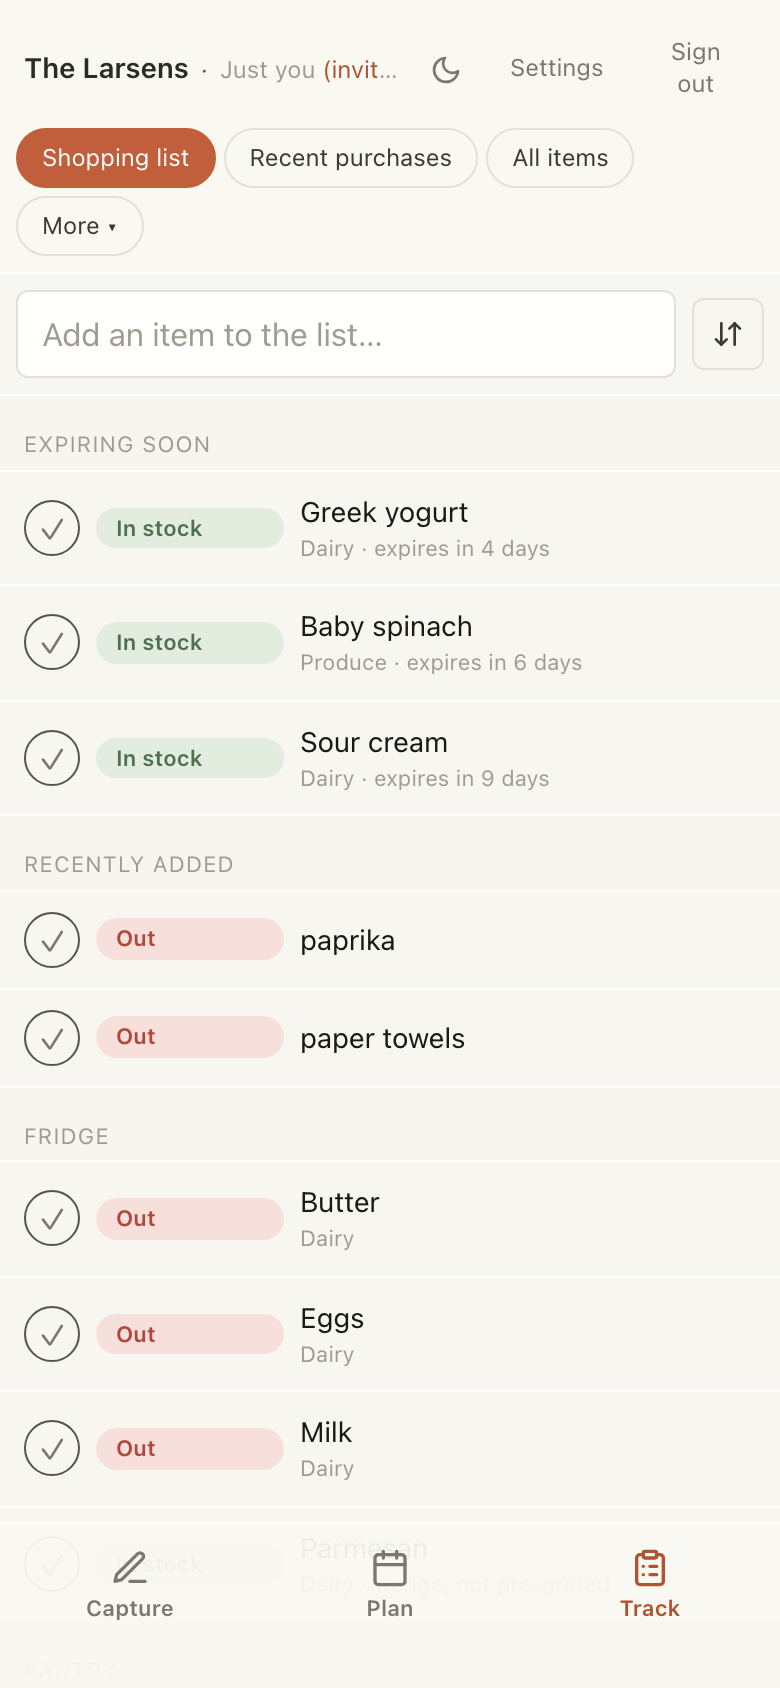
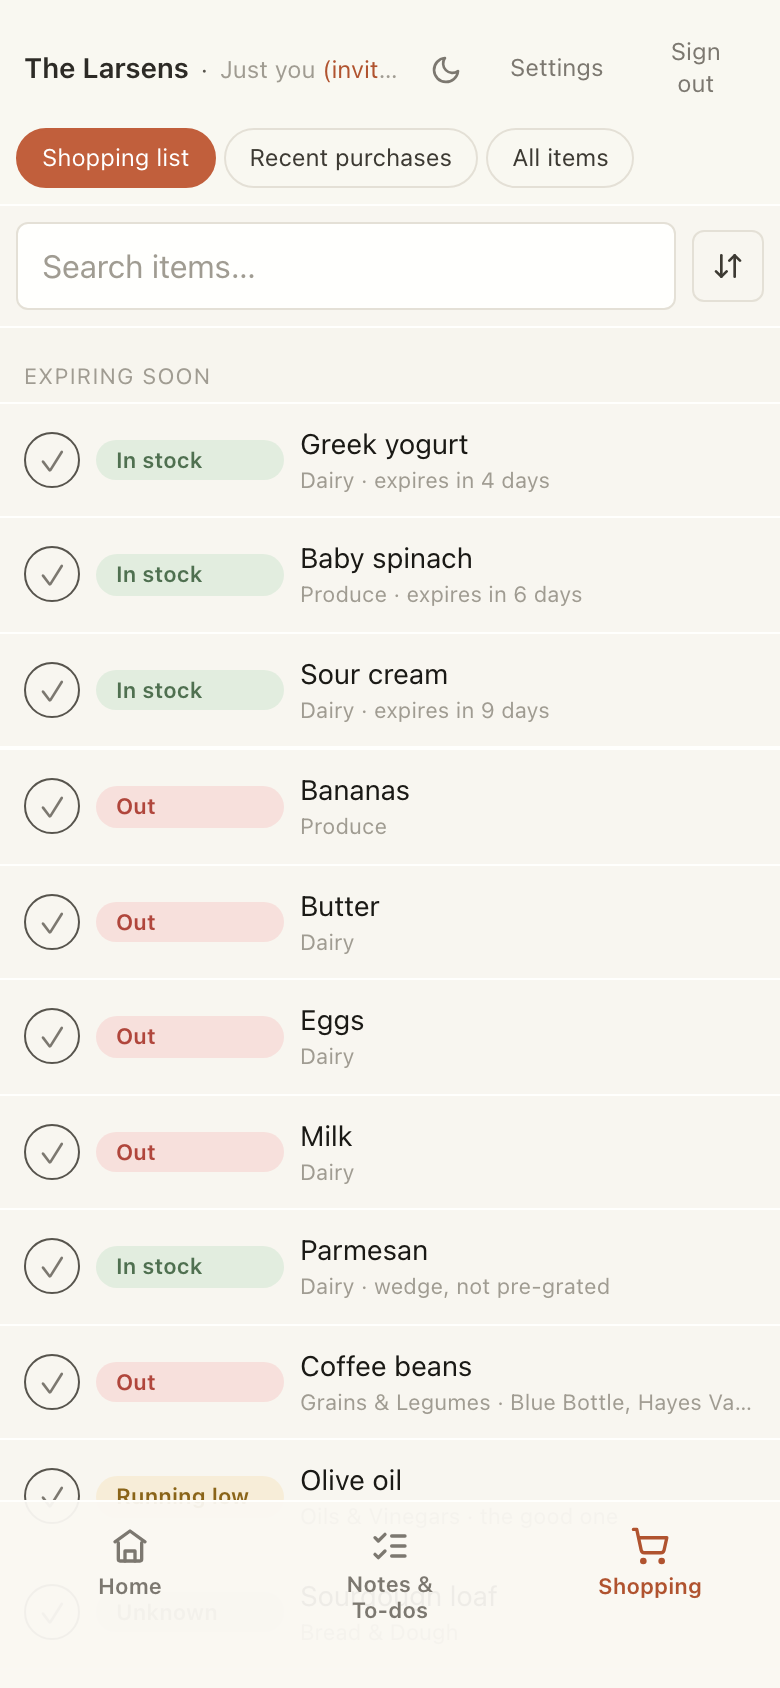
Update marketing for the new IA (Home / Notes & To-dos / Shopping, one Log)
Nav reworked in-app (#104): Capture/Plan/Track → Home / Notes & To-dos /
Shopping, Notes moved out of Home, and there's now a single create form (the
Log) that also takes photos. Brought the page in line:

- Features: dropped the Capture/Plan/Track pillars (and the Guides mention) for
  two that match the model — "One box for everything" (the one Log: type, say,
  or snap a photo; routes each line; reclassify in a tap) and "It lands where
  you'll find it" (notes & to-dos in one list; the shopping list).
- Gallery reshot against the merged app: the Log create form, the Activity
  feed, the combined Notes & To-dos view, Shopping. Dropped capture/detail/tasks.
- FAQ: "capture bar" → the Log on Home; "recipes/capture history" → notes &
  to-dos / activity history.

Hero video left as-is (real phone recording; now two nav generations stale).

diff --git a/index.html b/index.html
@@ -356,25 +356,19 @@
     <section class="features">
       <p class="features-lead">Right now it's scattered — texted to your partner, emailed to yourself, lost in a notes app, with no shared place it all lives. To-do apps and notes don't fix it: you still file each thing yourself, on your own phone. Hillside is the one shared place you just dump it all, and each line routes itself — for the whole house.</p>
       <div class="feature">
-        <h3>Capture — say it once</h3>
-        <p>Type or dictate a brain-dump — a grocery, a task, an appointment, a
-        note, even a pasted receipt — and Hillside reads it and files every line
-        where it belongs. Guessed wrong? One tap in the activity feed re-routes
-        it — so you never have to get the wording right. It even turns a throwaway
-        “changed the furnace filter” into a reminder months from now.</p>
+        <h3>One box for everything</h3>
+        <p>Type it, say it, or snap a photo — a grocery, a to-do, an appointment,
+        a note, a whole receipt — into the one Log, and Hillside sends each line
+        where it belongs. It'll even turn a throwaway “changed the furnace filter”
+        into a reminder months out. Guessed wrong? One tap in the activity feed
+        re-routes it — you never have to get the wording right.</p>
       </div>
       <div class="feature">
-        <h3>Plan — what's coming up</h3>
-        <p>Tasks and appointments in one agenda — each with an add-to-calendar
-        link — plus the weekly dinner rotation. And <em>Guides</em>: the
-        references the house keeps handy, from recipes to how-tos to anything
-        worth writing down.</p>
-      </div>
-      <div class="feature">
-        <h3>Track — what's in the house</h3>
-        <p>What to buy stays up front; what you already have sits quietly behind
-        it. Mark something bought and it drops off the list on its own — with a
-        nudge before the half-jar of yogurt turns.</p>
+        <h3>It lands where you'll find it</h3>
+        <p>Notes and to-dos collect in one searchable list — with due dates and an
+        add-to-calendar link for anything timed. The shopping list stays current:
+        what to buy up front, what's already in the kitchen behind it, and a nudge
+        before the half-jar of yogurt turns.</p>
       </div>
       <div class="feature">
         <h3>Shared with your household</h3>
@@ -395,23 +389,23 @@
       <h2>A peek inside</h2>
       <div class="shot-row">
         <figure class="shot">
-          <img src="screens/capture.png" width="390" height="844" loading="lazy"
-               alt="Hillside activity feed: each captured line turned into a grocery, a calendar event or a task." />
-          <figcaption>Everything you said, sorted into a tidy feed.</figcaption>
+          <img src="screens/log.png" width="390" height="844" loading="lazy"
+               alt="Hillside's Log: one box that takes a typed or spoken brain-dump, or a photo." />
+          <figcaption>One box — type it, say it, or snap a photo.</figcaption>
         </figure>
         <figure class="shot">
-          <img src="screens/capture-detail.png" width="390" height="844" loading="lazy"
-               alt="A capture's detail view: what each line became, with Add-to-Calendar links and one-tap reclassify." />
-          <figcaption>See what each line became — and re-route any miss in a tap.</figcaption>
+          <img src="screens/activity.png" width="390" height="844" loading="lazy"
+               alt="Activity feed: each logged line turned into a grocery, a calendar event, a to-do or a note." />
+          <figcaption>Every line, sorted — re-route any miss in a tap.</figcaption>
         </figure>
         <figure class="shot">
-          <img src="screens/tasks.png" width="390" height="844" loading="lazy"
-               alt="Hillside Plan tasks: a shared agenda of to-dos with due dates." />
-          <figcaption>Tasks and due dates — the week's agenda.</figcaption>
+          <img src="screens/notes-todos.png" width="390" height="844" loading="lazy"
+               alt="Notes &amp; To-dos: notes and dated tasks together in one searchable list." />
+          <figcaption>Notes and to-dos, in one place.</figcaption>
         </figure>
         <figure class="shot">
           <img src="screens/shopping.png" width="390" height="844" loading="lazy"
-               alt="Hillside shopping list with an expiring-soon section and in-stock / out status chips." />
+               alt="Shopping list with an expiring-soon section and in-stock / out status chips." />
           <figcaption>What to buy, and what's about to turn.</figcaption>
         </figure>
       </div>
@@ -426,9 +420,10 @@
       </details>
       <details>
         <summary>How do I add things?</summary>
-        <p>Type or dictate a line into the capture bar — “out of milk,” “taco
-        night Thursday” — and Hillside files each one where it belongs. Back from
-        the store? Paste the receipt and the whole shop is logged at once.</p>
+        <p>Type, say, or snap a photo into the <b>Log</b> on Home — “out of
+        milk,” “taco night Thursday” — and Hillside files each one where it
+        belongs. Back from the store? Drop in the receipt and the whole shop is
+        logged at once.</p>
       </details>
       <details>
         <summary>How do I use it with Claude?</summary>
@@ -450,8 +445,8 @@
       <details>
         <summary>What's a household — and how do I add my family?</summary>
         <p>A household is the shared space everything lives in: the shopping
-        list, recipes, and capture history belong to it, not to one person — and
-        each member sees the same data on their own device. To add someone, open
+        list, your notes and to-dos, and the activity history belong to it, not
+        to one person — and each member sees the same data on their own device. To add someone, open
         <b>Settings → Members</b>, tap <b>Generate invite</b>, and send them the
         link (good for 7 days); they join your household and set their own
         password.</p>
